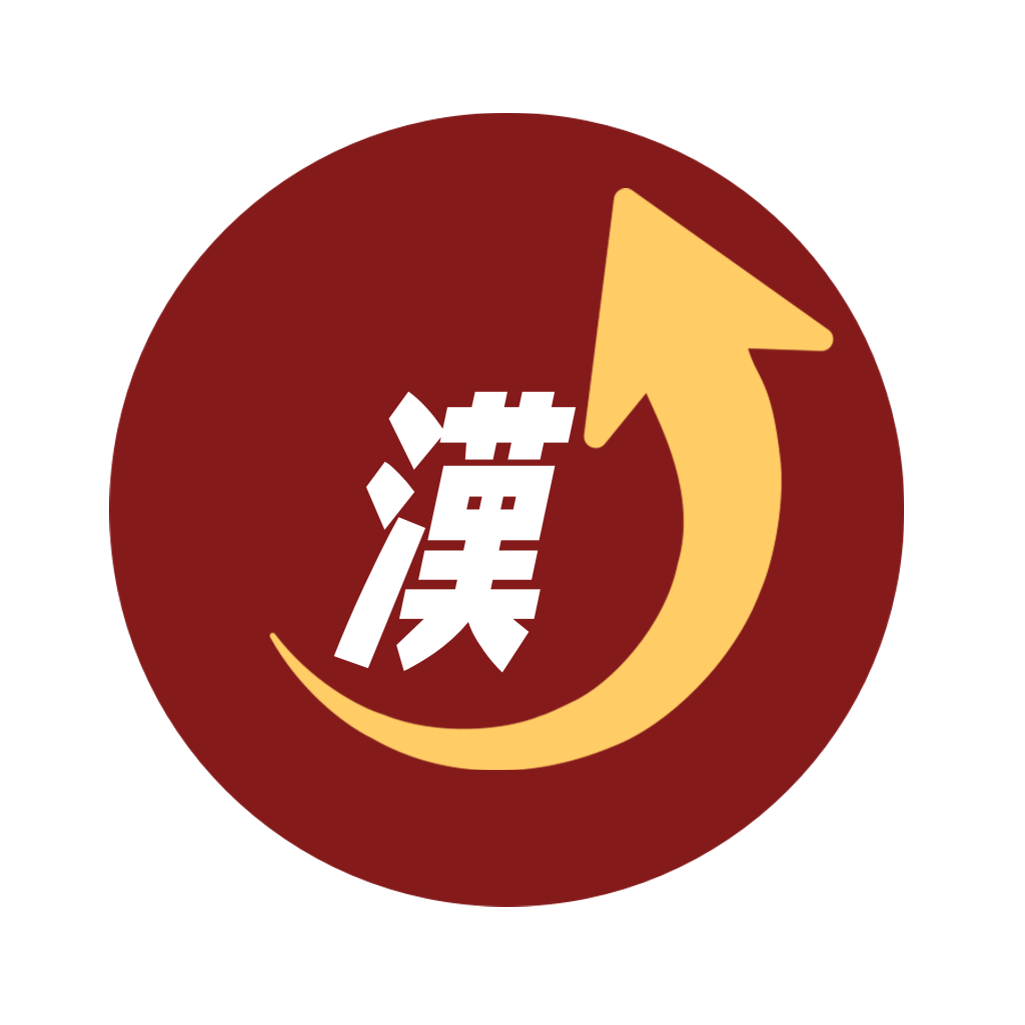
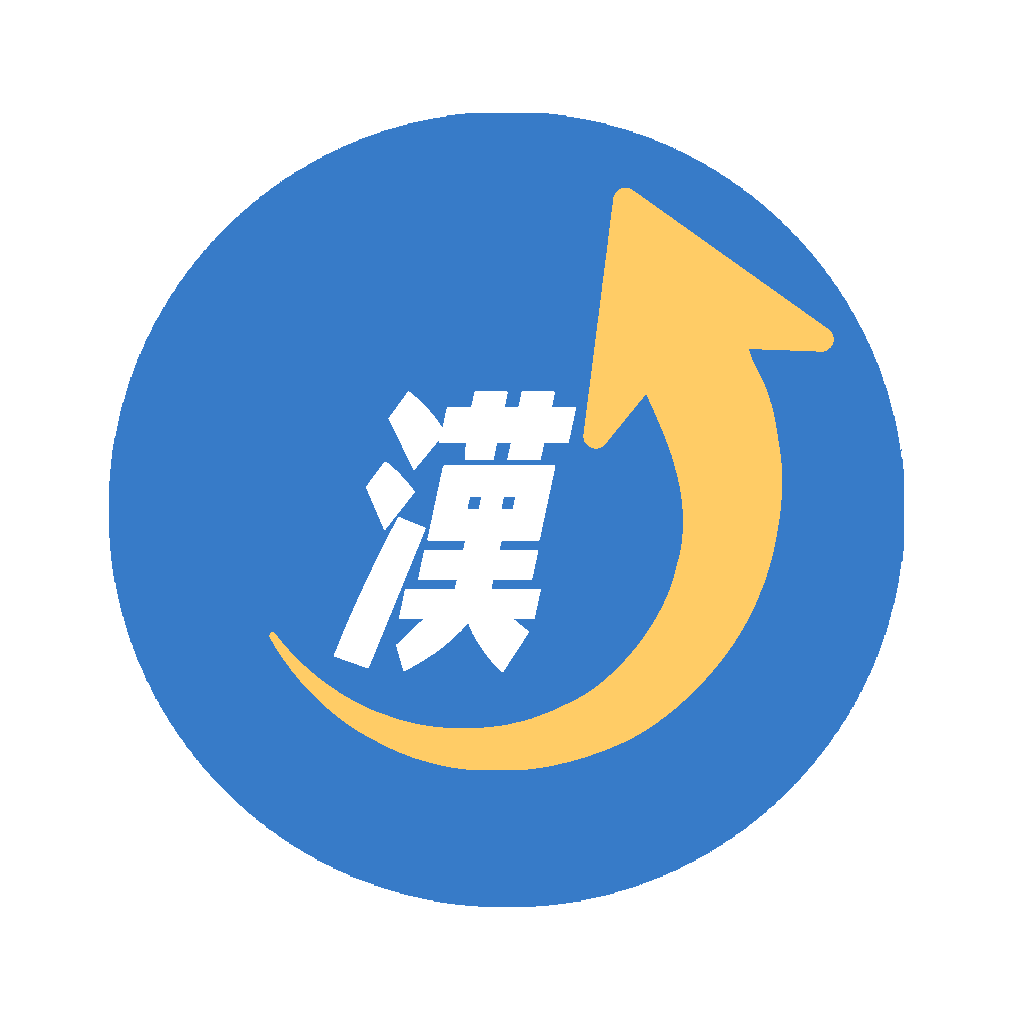
Init word application with Paper, Redux, Auth contexts

diff --git a/front/apps/word/app/_layout.tsx b/front/apps/word/app/_layout.tsx
@@ -2,11 +2,14 @@ import { useEffect } from 'react';
 import { useFonts } from 'expo-font';
 import { SplashScreen, Stack } from 'expo-router';
 import Head from 'expo-router/head';
+import { Provider } from 'react-redux';
 import { Provider as PaperProvider, DefaultTheme } from 'react-native-paper';
 
 import { AuthProvider } from 'kanji-app-auth';
+import { ColorProvider } from 'kanji-app-ui';
 
 import { colors } from '../constants/Colors';
+import store from 'store';
 
 export {
   // Catch any errors thrown by the Layout component.
@@ -60,12 +63,16 @@ export default function RootLayout() {
 function RootLayoutNav() {
   return (
     <PaperProvider theme={theme}>
-      <AuthProvider>
-        <Head>
-          <title>KanjiUp User</title>
-        </Head>
-        <Stack screenOptions={{ headerShown: false }}></Stack>
-      </AuthProvider>
+      <Provider store={store}>
+        <AuthProvider>
+          <ColorProvider colors={colors}>
+            <Head>
+              <title>KanjiUp User</title>
+            </Head>
+            <Stack screenOptions={{ headerShown: false }}></Stack>
+          </ColorProvider>
+        </AuthProvider>
+      </Provider>
     </PaperProvider>
   );
 }

diff --git a/front/apps/word/constants/index.ts b/front/apps/word/constants/index.ts
@@ -1,15 +1,8 @@
-import { Platform } from 'react-native';
 import { colors } from './Colors';
+import { authUrl, appId, endpointUrls } from './endpoints';
 
-const authUrl = `${process.env.EXPO_PUBLIC_AUTH_BASE_URL}/auth/login?app_id=`;
-const appId = Platform.select({
-  web: process.env.EXPO_PUBLIC_AUTH_APP_ID_WEB,
-  native: process.env.EXPO_PUBLIC_AUTH_APP_ID_NATIVE,
-});
-const endpointUrls = {
-  kanji: process.env.EXPO_PUBLIC_KANJI_BASE_URL,
-  recognition: process.env.EXPO_PUBLIC_RECOGNITION_BASE_URL,
-  user: process.env.EXPO_PUBLIC_AUTH_BASE_URL,
-};
+const WORD_PROGRESSION_MAX = 20;
+const WORD_PROGRESSION_INC = 2;
+const WORD_PROGRESSION_INC_LOW = 1;
 
-export { colors, authUrl, appId, endpointUrls };
+export { colors, authUrl, appId, endpointUrls, WORD_PROGRESSION_MAX, WORD_PROGRESSION_INC, WORD_PROGRESSION_INC_LOW };

diff --git a/front/apps/word/constants/Colors.ts b/front/apps/word/constants/Colors.ts
@@ -1,13 +1,15 @@
 export const colors = {
-  primary: '#DA2A2D',
-  primaryDark: '#851a1b',
+  primary: '#377BC8',
+  primaryDark: '#26568c',
   background: '#fbe9ea',
+  background1: 'rgb(248,248,248)',
+  background2: '#377BC830',
   warning: '#da822b',
   info: '#2baeda',
-  secondary: '#f56e88',
-  secondaryDark: '#a04859',
+  secondary: '#9adcfb',
+  secondaryDark: '#5a94af',
   text: '#3F3D56',
-  surface: '#DA2A2D',
+  surface: '#377BC8',
   success: '#bdf56e',
   elevation: {
     level0: 'transparent',
@@ -17,4 +19,11 @@ export const colors = {
     level4: '#F0F0F0',
     level5: '#E8E8E8',
   },
+};
+
+export const snackbarColors = {
+  success: '#2e7d32',
+  info: '#0288d1',
+  warning: '#ed6c02',
+  error: '#d32f2f',
 };

diff --git a/front/apps/word/app/+html.tsx b/front/apps/word/app/+html.tsx
@@ -20,6 +20,8 @@ export default function Root({ children }: { children: React.ReactNode }) {
           name="viewport"
           content="width=device-width,initial-scale=1,minimum-scale=1,maximum-scale=1.00001,viewport-fit=cover"
         />
+        <title>KanjiUp | Word</title>
+        <meta name="description" content="Learn and memorize Japanese kanji and words with Flashcard, drawing quizz and games" />
         {/* 
           Disable body scrolling on web. This makes ScrollView components work closer to how they do on native. 
           However, body scrolling is often nice to have for mobile web. If you want to enable it, remove this line.

diff --git a/front/apps/word/app/index.tsx b/front/apps/word/app/index.tsx
@@ -51,7 +51,7 @@ export default function Page() {
   return (
     <SafeAreaView style={[styles.main, { justifyContent: 'center', alignItems: 'center' }]}>
       <Image source={require('../assets/images/adaptive-icon.png')} style={{ width: 200, height: 200 }} />
-      <Text style={[styles.title, { marginTop: 0 }]}>Welcome on KanjiUp application</Text>
+      <Text style={[styles.title, { marginTop: 0 }]}>Welcome on KanjiUp Word application</Text>
       <Button icon="account" onPress={handleAuth} mode="contained" style={{ borderRadius: 25, width: '70%' }}>
         Sign in
       </Button>

diff --git a/front/apps/word/constants/endpoints.ts b/front/apps/word/constants/endpoints.ts
@@ -1,0 +1,13 @@
+import { Platform } from 'react-native';
+
+export const authUrl = `${process.env.EXPO_PUBLIC_AUTH_BASE_URL}/auth/login?app_id=`;
+export const appId = Platform.select({
+  web: process.env.EXPO_PUBLIC_AUTH_APP_ID_WEB,
+  native: process.env.EXPO_PUBLIC_AUTH_APP_ID_NATIVE,
+});
+export const endpointUrls = {
+  kanji: process.env.EXPO_PUBLIC_KANJI_BASE_URL,
+  recognition: process.env.EXPO_PUBLIC_RECOGNITION_BASE_URL,
+  user: process.env.EXPO_PUBLIC_AUTH_BASE_URL,
+  word: process.env.EXPO_PUBLIC_WORD_BASE_URL,
+};
